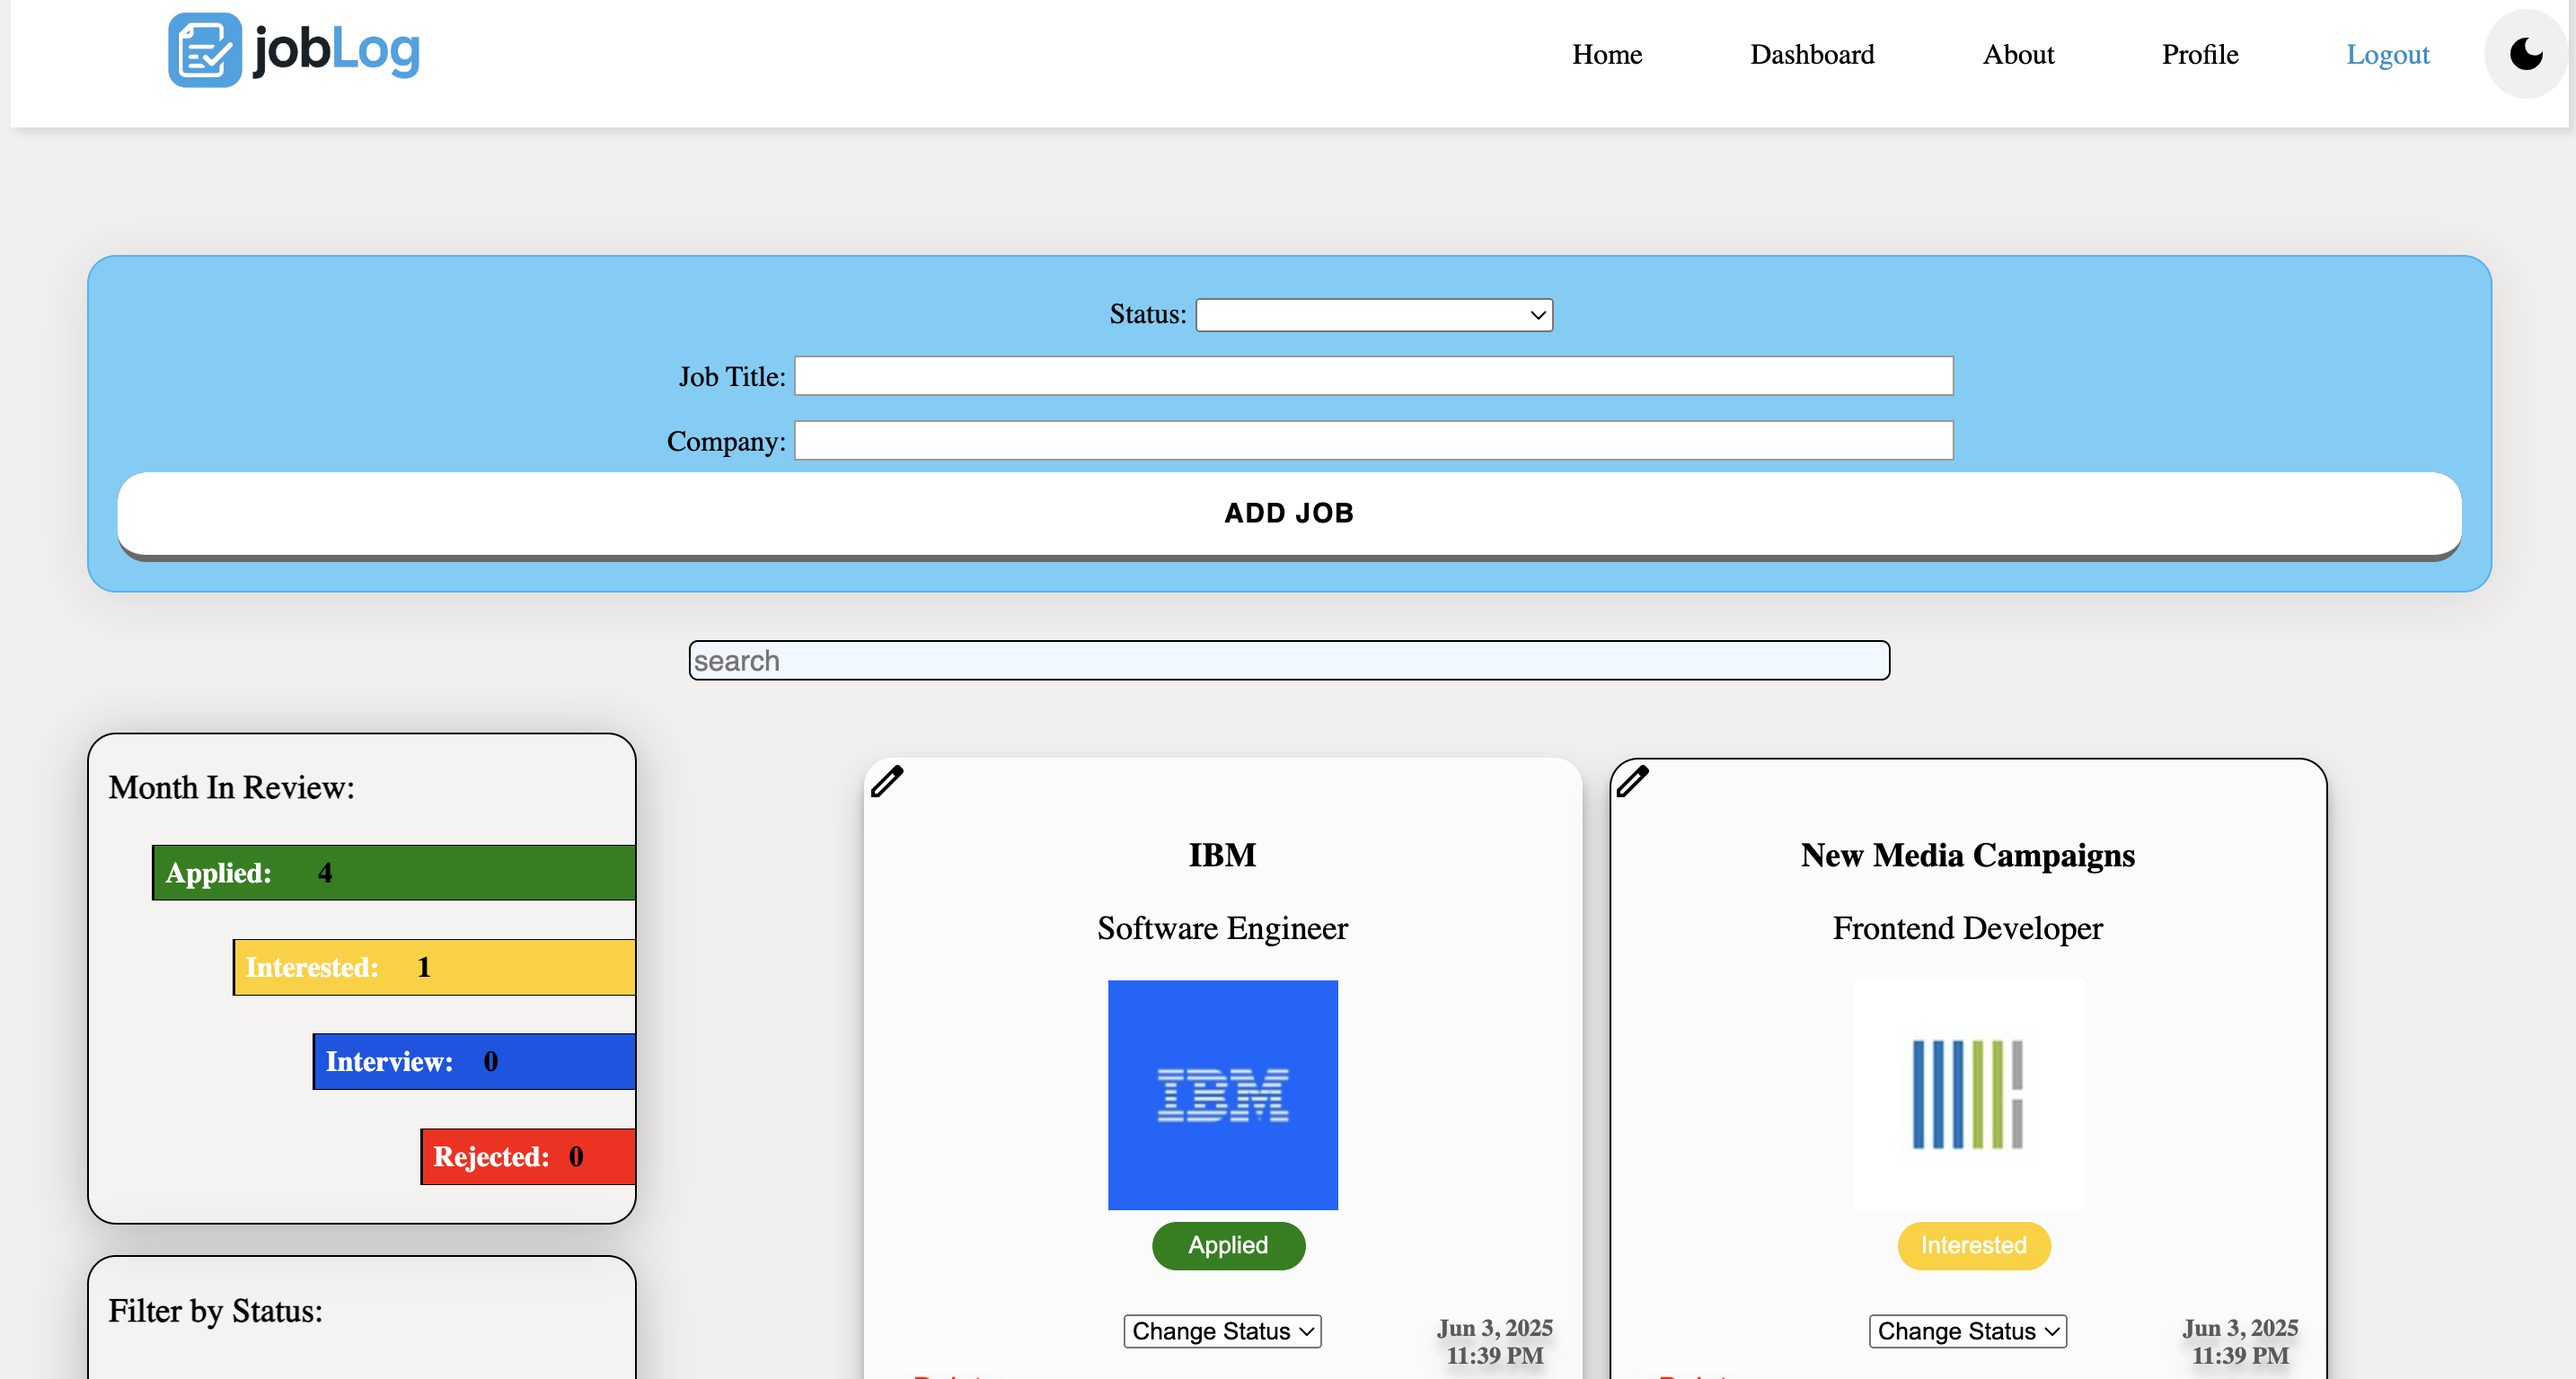
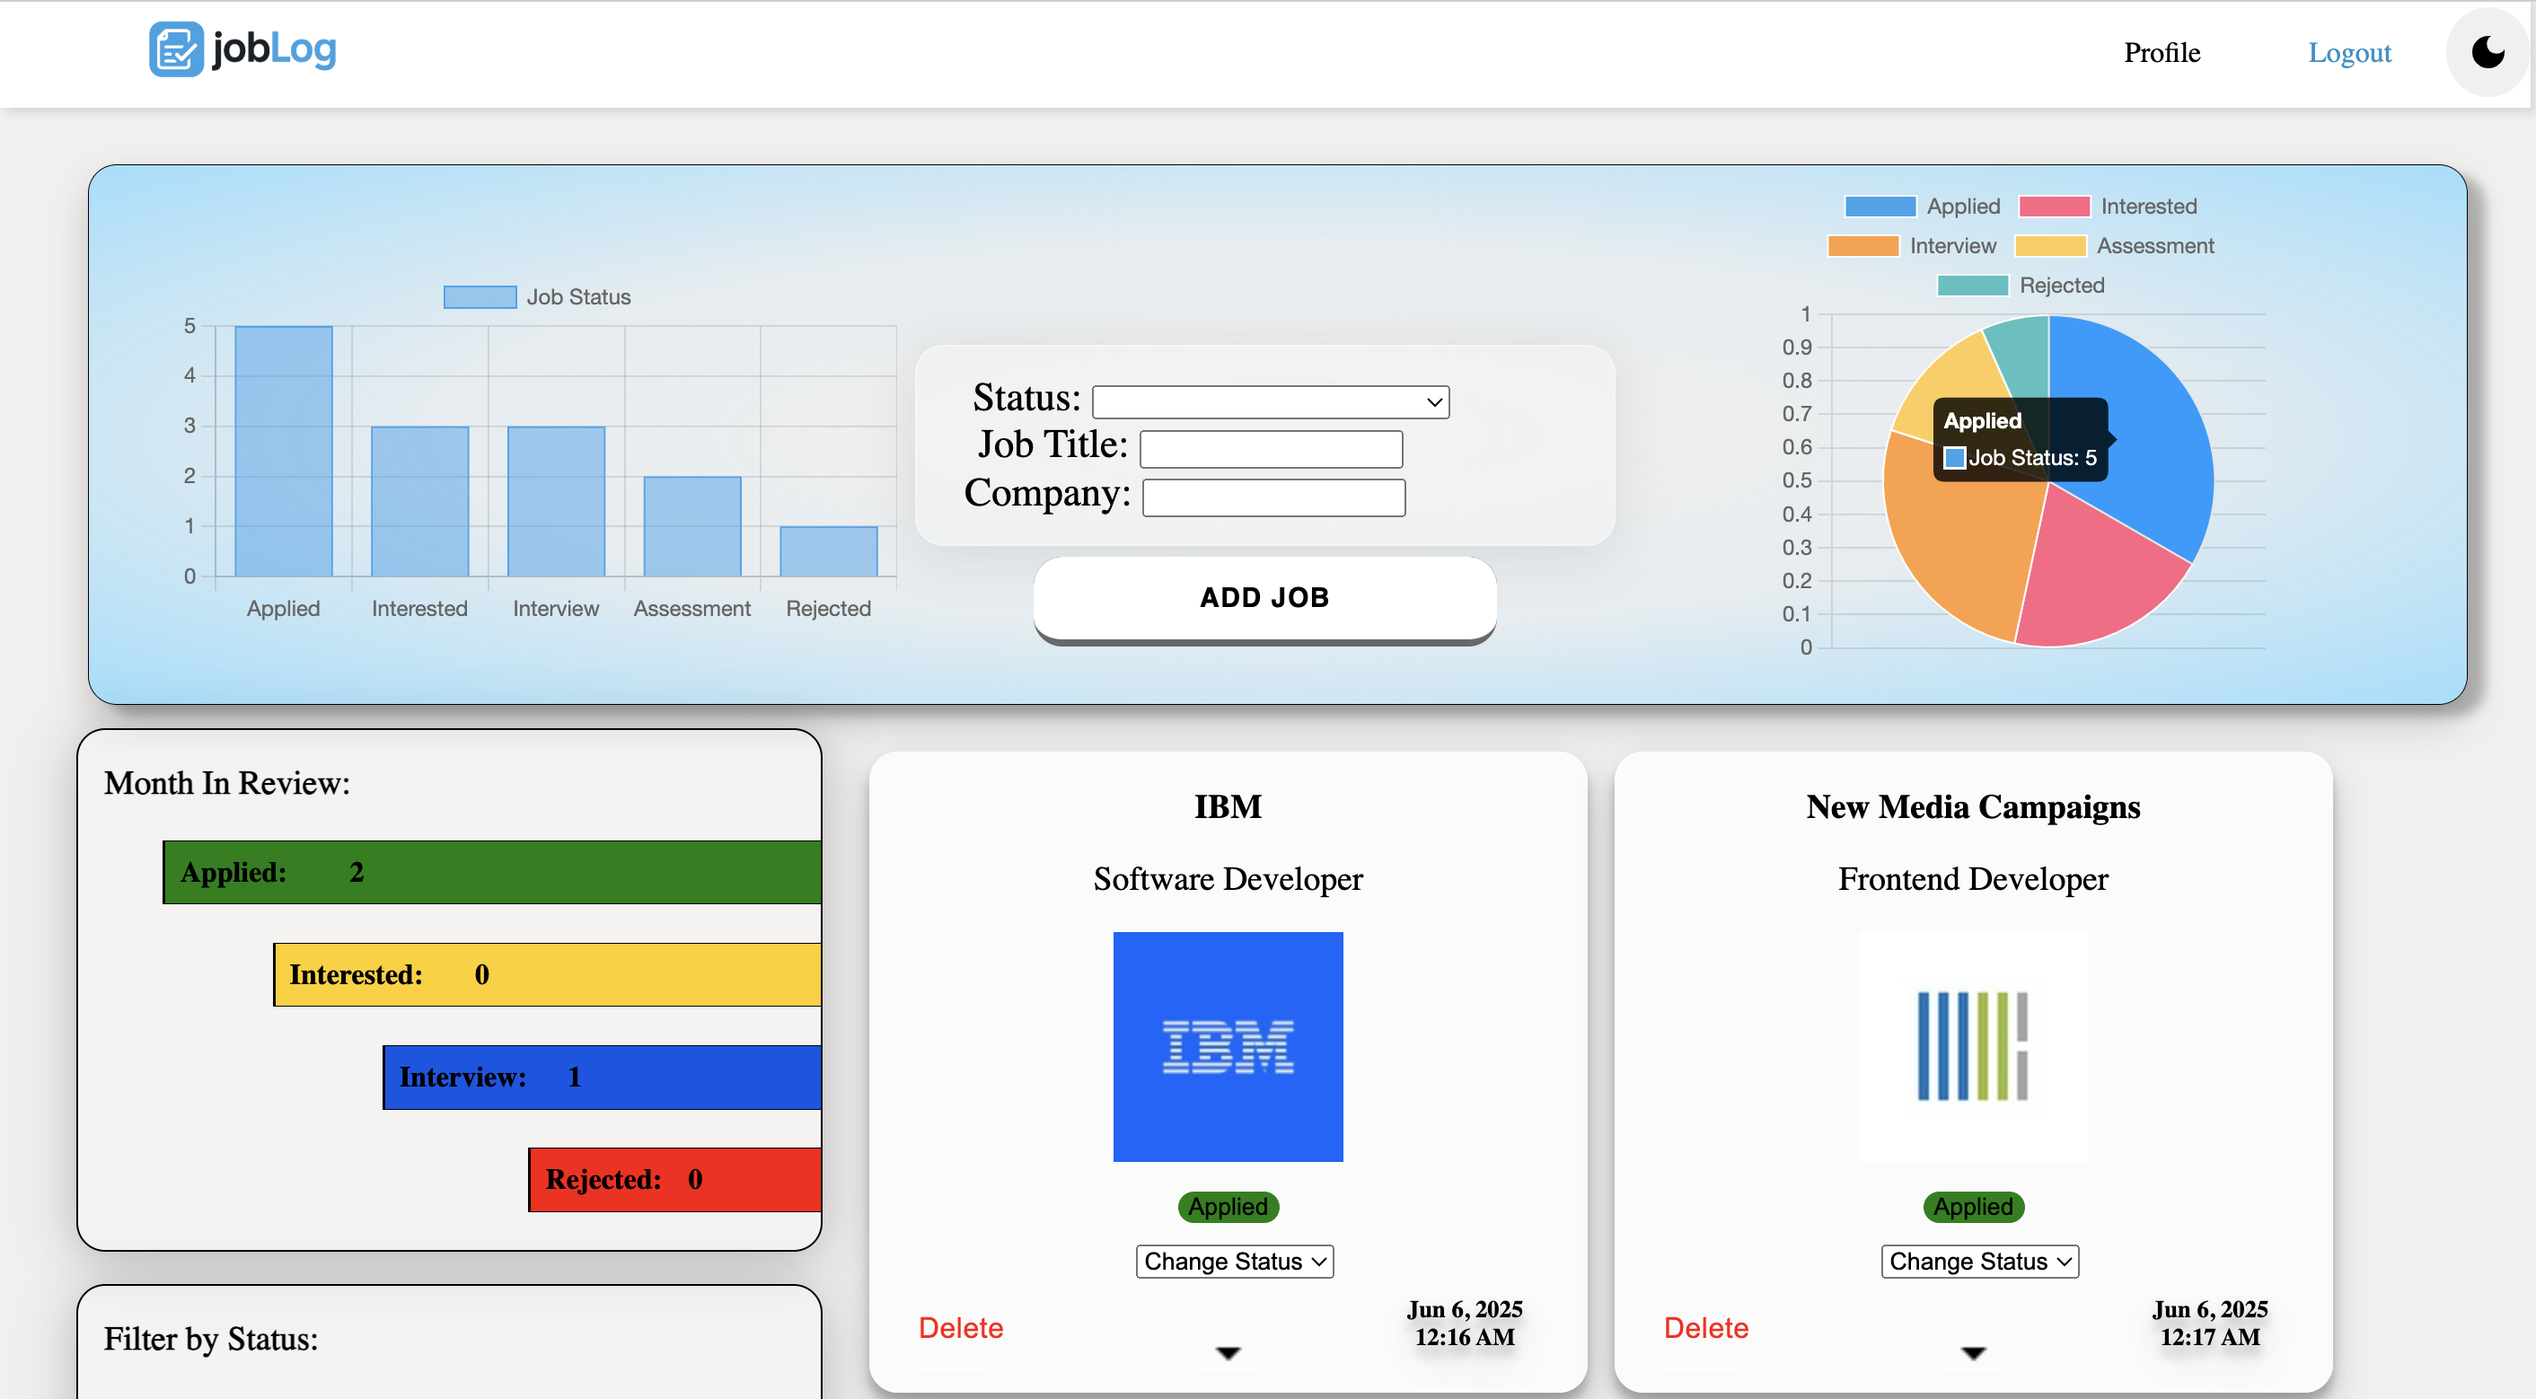
chart.js feature slowly coming together

diff --git a/public/styles/file.css b/public/styles/file.css
@@ -71,18 +71,13 @@ align-self: center;
 }
 
 #formDiv {
+  z-index: 10000000;
   text-align: center;
-
+margin-top: 5vh;
   display: flex;
-
+margin-bottom: 0;
   flex-direction: column;
   padding: 1em;
-  background-color: #6fcdf8;
-  border-radius: 16px;
-  box-shadow: 0 4px 30px rgba(0, 0, 0, 0.1);
-  backdrop-filter: blur(5px);
-  -webkit-backdrop-filter: blur(5px);
-   border: 1px solid #29b3f3;
 }
 #formDiv div {
   margin: 0.5%;
@@ -333,6 +328,7 @@ transition: margin-left 0.3s ease;
   height: 13%;
   border-radius: 15px;
   margin-left: 15%;
+  width: 7vw;
 }
 .column {
   text-align: left;
@@ -353,12 +349,16 @@ transition: margin-left 0.3s ease;
   border-radius: 5px;
 }
 #bigBox {
+
   display: inline-flex;
   width: 100%;
+  position:relative;
+  
 }
 #navigationArea div {
   padding-left: 5%;
   border: solid black 1px;
+ 
 }
 
 
@@ -373,7 +373,7 @@ transition: margin-left 0.3s ease;
     margin-left: 7%;
   }
   #bigBox {
-    display: block;
+    display: none;
   }
   #navigationArea {
     display: flex;
@@ -453,13 +453,22 @@ body button {
   cursor: pointer;
 }
 
-.chart {
+#myChart{
+  display: flex;
+ height: 300px;
+ color: black;
+ margin-top: 1vh;
 
-  background-color: #6fcdf8;
+}
+
+.chart {
+z-index: -5;
+
   background-image:
   radial-gradient(
-    white,
-    #6fcdf8
+    #6fcdf800,
+    #6fcdf81a,
+    #9bdefd
   );
   border-radius: 16px;
   box-shadow: rgba(0, 0, 0, 0.19) 0px 10px 20px,
@@ -467,17 +476,33 @@ body button {
   backdrop-filter: blur(5px);
   -webkit-backdrop-filter: blur(5px);
   border: 0.5px solid rgb(0, 0, 0);
-  width: 300px;
-  height: 300px;
+  width: 85vw;
+  height: 200px;
   padding: 50px;
   margin: 0 auto;
-  
+  flex-direction: row;
+  justify-content: space-between;
   position: absolute;
-  top: 130%;
-  left: 2%;
+  top: 12%;
+  left: 4%;
 
   transition: all 0.75s ease;
 }
+
+#chartWrapper{
+    left: 70%;
+    display: flex;
+height: 35vh;
+width: 55vw;
+
+
+ color: black;
+
+ z-index: 10000;
+ position: absolute;
+top: 13%;
+}
+
 .chart .show {
   width: 300px;
   opacity: 1;
@@ -513,7 +538,7 @@ box-shadow: rgba(0, 0, 0, 0.19) 0px 10px 20px,
 
 @media (max-width: 1000px) {
  .chart{
-  display: none;
+  display: flex;
  }
 }
 

diff --git a/public/scripts/charts.js b/public/scripts/charts.js
@@ -1,3 +1,5 @@
+
+
 async function createChart(){
 
 const item = localStorage.getItem('Bearer');
@@ -58,10 +60,18 @@ animations: {
     }
   });
 
+ 
+
 document.getElementById('submitForm').addEventListener('click', (e) =>{
 e.preventDefault()
-dataVisualizationChart.destroy()
-createChart()
+
+if(dataVisualizationChart){
+  dataVisualizationChart.destroy()
+  createChart()
+}else{
+  createChart()
+}
+
 
 })
 }
@@ -72,3 +82,107 @@ createChart()
 
 
 
+
+async function createSecondChart(){
+
+const item = localStorage.getItem('Bearer');
+
+console.log('working')
+   const response = await axios.get('/api/v1/users',
+  {
+ headers: {
+          'Authorization': `Bearer ${item}`
+        }
+      
+      })
+
+
+const userData = response.data
+
+ const statusCounts = {};
+
+userData.forEach(user => {
+  const status = user.name;
+  statusCounts[status] = (statusCounts[status] || 0) + 1;
+}); 
+ 
+
+  
+
+ const ctxTwo = document.getElementById('mySecondChart');
+
+
+
+const dataVisualizationPie = new Chart(ctxTwo, {
+    type: 'pie',
+    data: {
+      labels: Object.keys(statusCounts),
+      datasets: [{
+        label: 'Job Status',
+        data: Object.values(statusCounts),
+        borderWidth: 1
+      }]
+    },
+    options: 
+    {
+       responsive: true,
+    plugins: {
+      legend: {
+        position: 'top',
+      },
+   
+    },
+animations: {
+      tension: {
+        duration: 1000,
+        easing: 'easeInOutCubic',
+        from: 1,
+        to: 0,
+        loop: true
+      }
+    },
+      scales: {
+        y: {
+          beginAtZero: true
+        }
+      }
+
+    }
+  })
+
+
+ 
+
+document.getElementById('submitForm').addEventListener('click', (e) =>{
+e.preventDefault()
+
+if(dataVisualizationPie){
+  dataVisualizationPie.destroy()
+  createSecondChart()
+}else{
+  createSecondChart()
+}
+
+createSecondChart()
+dataVisualizationPie.update('active')
+
+
+})
+}
+
+
+createSecondChart()
+
+
+
+
+
+
+
+
+
+
+
+
+
+ 

diff --git a/public/styles/navbar.css b/public/styles/navbar.css
@@ -61,7 +61,7 @@ body{
 
 nav{
   width: 100vw;
-
+  height: 8vh;
   margin-bottom: 2%;
   background-color: var(--nav-color);
   box-shadow: 3px 3px 5px rgba(0, 0, 0, 0.1);
